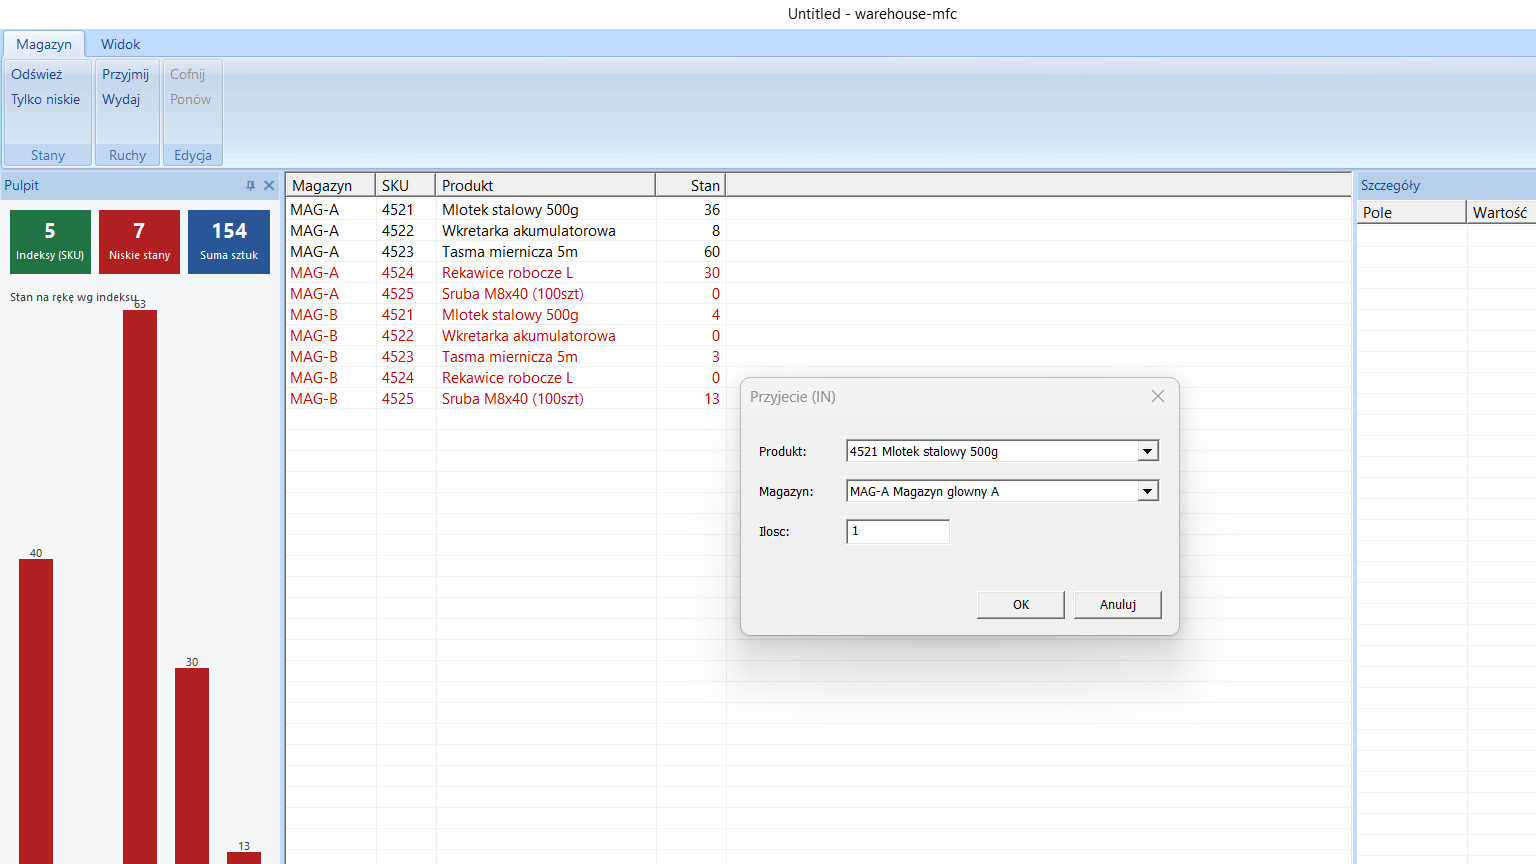
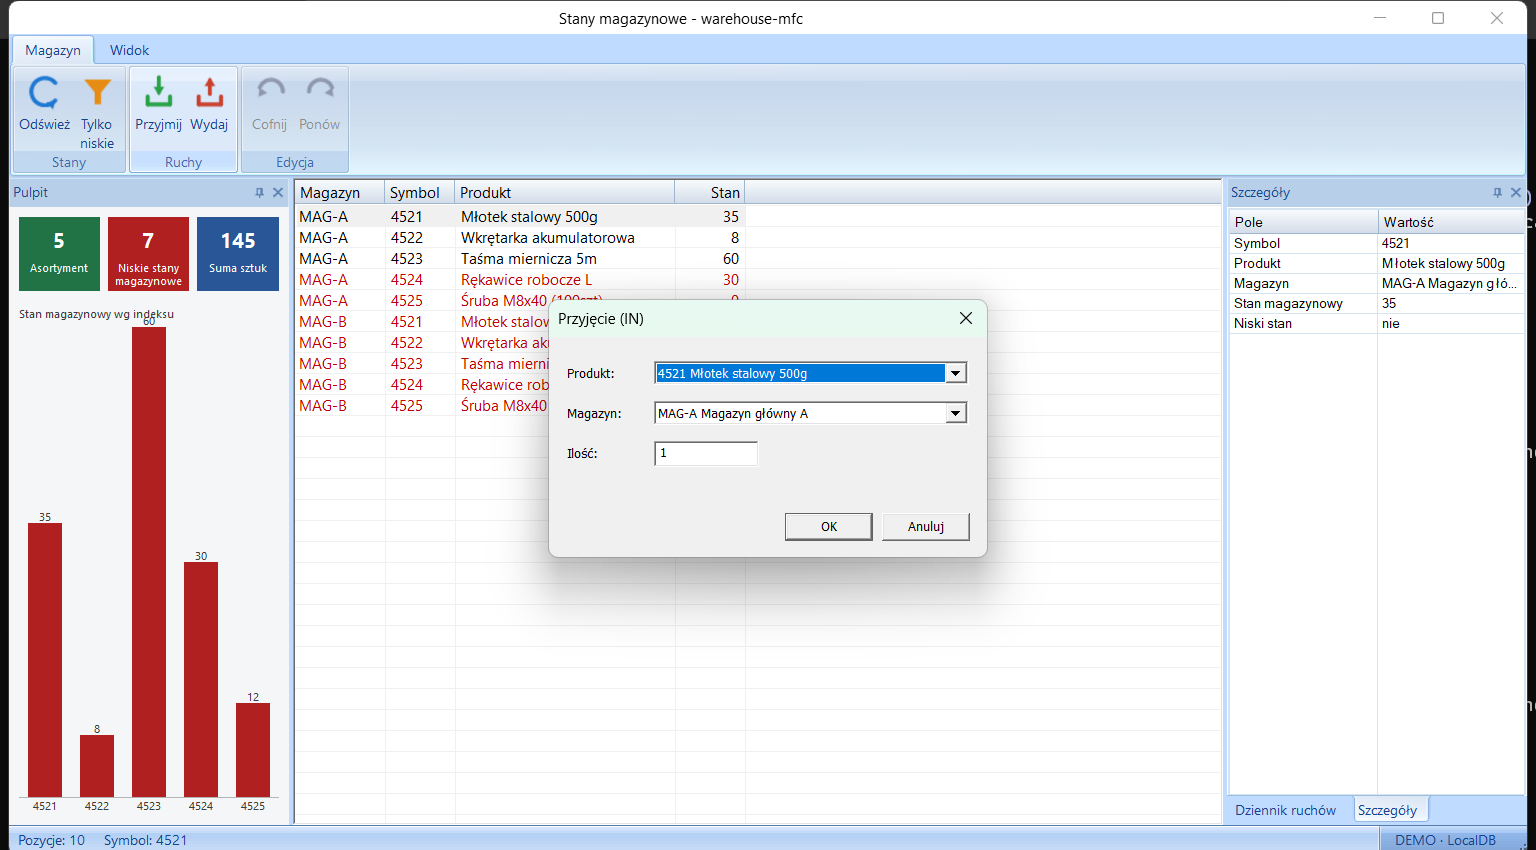
Docs: refresh README + screenshots for Polish data, document the test harness
- Note the full Polish/Unicode localization (UTF-8 .cpp/.rc + wide ODBC) and add a Testing section covering the Catch2 unit tests and the new manual UI harness.

- Regenerate the three embedded screenshots from the current app (Polish names, Symbol/Asortyment/Pozycje labels, local-time Dziennik, visible status bar).

- Flag the UTF-8 sqlcmd caveat (-f 65001 for classic sqlcmd).

Changed region(s): [[0.0, 0.0, 1.0, 1.0], [0.4375, 0.2753, 0.5312, 0.3671], [0.6875, 0.4894, 0.75, 0.52]]

diff --git a/README.md b/README.md
@@ -20,16 +20,20 @@ pattern). Built as a portfolio piece for a *Senior C++ Developer (MFC)* role.
   `core/` static lib with **TDD** (Catch2), verified without a GUI.
 - **Modern MFC (M8)**: an MFC **Feature Pack** UI — `CMFCRibbonBar`, dockable panes,
   visual-manager themes (dark mode), and an owner-drawn **dashboard** (KPI tiles + bar chart).
+- **Localized & Unicode-correct**: Polish UI *and* data with full diacritics end-to-end —
+  UTF-8 `.cpp`/`.rc` resources (incl. the localized Feature Pack context menus) and wide ODBC
+  (`SQLExecDirectW`, `N'…'` literals, `NVARCHAR`). The seed names (*Młotek*, *Wkrętarka*,
+  *Śruba*…) and SQL Server error messages round-trip cleanly to the UI.
 
 ## Screenshots
 ![Ribbon UI + dashboard + docked panes](docs/screenshots/04-feature-pack.png)
 
 The MFC **Feature Pack** UI: a `CMFCRibbonBar` with icon glyphs (*Magazyn* / *Widok* tabs), an
-owner-drawn **Pulpit** (dashboard) pane with KPI tiles + an on-hand bar chart, the stock grid with
-low-stock rows in red, the **Szczegóły** / **Dziennik ruchów** panes sharing one **tab group**, and
-a `CMFCRibbonStatusBar` (row count · selected SKU · connection profile).
+owner-drawn **Pulpit** (dashboard) pane with KPI tiles + an on-hand bar chart, the stock grid (with
+low-stock rows in red and proper Polish names), the **Szczegóły** / **Dziennik ruchów** panes sharing
+one **tab group**, and a `CMFCRibbonStatusBar` (row count · selected symbol · connection profile).
 
-| Dark theme (Widok → Ciemny motyw) | Record movement (DDX/DDV) |
+| Dark theme (Widok → Motyw → Ciemny) | Record movement (DDX/DDV) |
 |---|---|
 | ![Dark theme](docs/screenshots/02-dark-theme.png) | ![Record dialog](docs/screenshots/03-record-dialog.png) |
 
@@ -56,10 +60,30 @@ No web/HTTP in C++ — the app only talks to SQL Server via **ODBC**.
 ```powershell
 git clone <this repo>
 cd warehouse-mfc
-# 1) create the demo DB in LocalDB and seed it
+# 1) create the demo DB in LocalDB and seed it (optional — the app self-seeds on first run)
 sqlcmd -S "(localdb)\MSSQLLocalDB" -i db\01_schema.sql
 sqlcmd -S "(localdb)\MSSQLLocalDB" -i db\02_seed.sql
 # 2) open warehouse-mfc.sln in Claude Code / VS and follow docs/PLAN.md
+```
+> The SQL scripts are **UTF-8** (Polish names with diacritics). The app's first-run self-seed
+> (`SQLExecDirectW`) and the modern `sqlcmd` handle this natively; the classic SQL-tools
+> `sqlcmd` needs `-f 65001`.
+
+## Testing
+- **Unit tests (`core/`)** — stock math and the Command/undo stack are TDD'd with **Catch2**;
+  build `core_tests` and run `x64\Debug\core_tests.exe` (exit `0` = green).
+- **Manual UI harness** — [`tests/manual/`](tests/manual/) drives the *running* app with real
+  mouse/keyboard + **UI Automation** (PowerShell) and screenshots each step, for exploratory
+  end-to-end checks beyond the happy path: right-click context menus, invalid/boundary quantity,
+  stock overdraw (rejected by the stored proc), undo/redo, theme switching, tiny-window resize.
+  See [its README](tests/manual/README.md) for the Windows DPI/timing quirks it works around.
+
+```powershell
+# unit tests
+msbuild warehouse-mfc.sln /p:Configuration=Debug /p:Platform=x64 /t:core_tests
+x64\Debug\core_tests.exe
+# manual UI pass (app must be built)
+. tests\manual\uia.ps1   # then: Pin-App; Click-Point ...; Shot-App 01
 ```
 
 ## Demo installer (one-click)